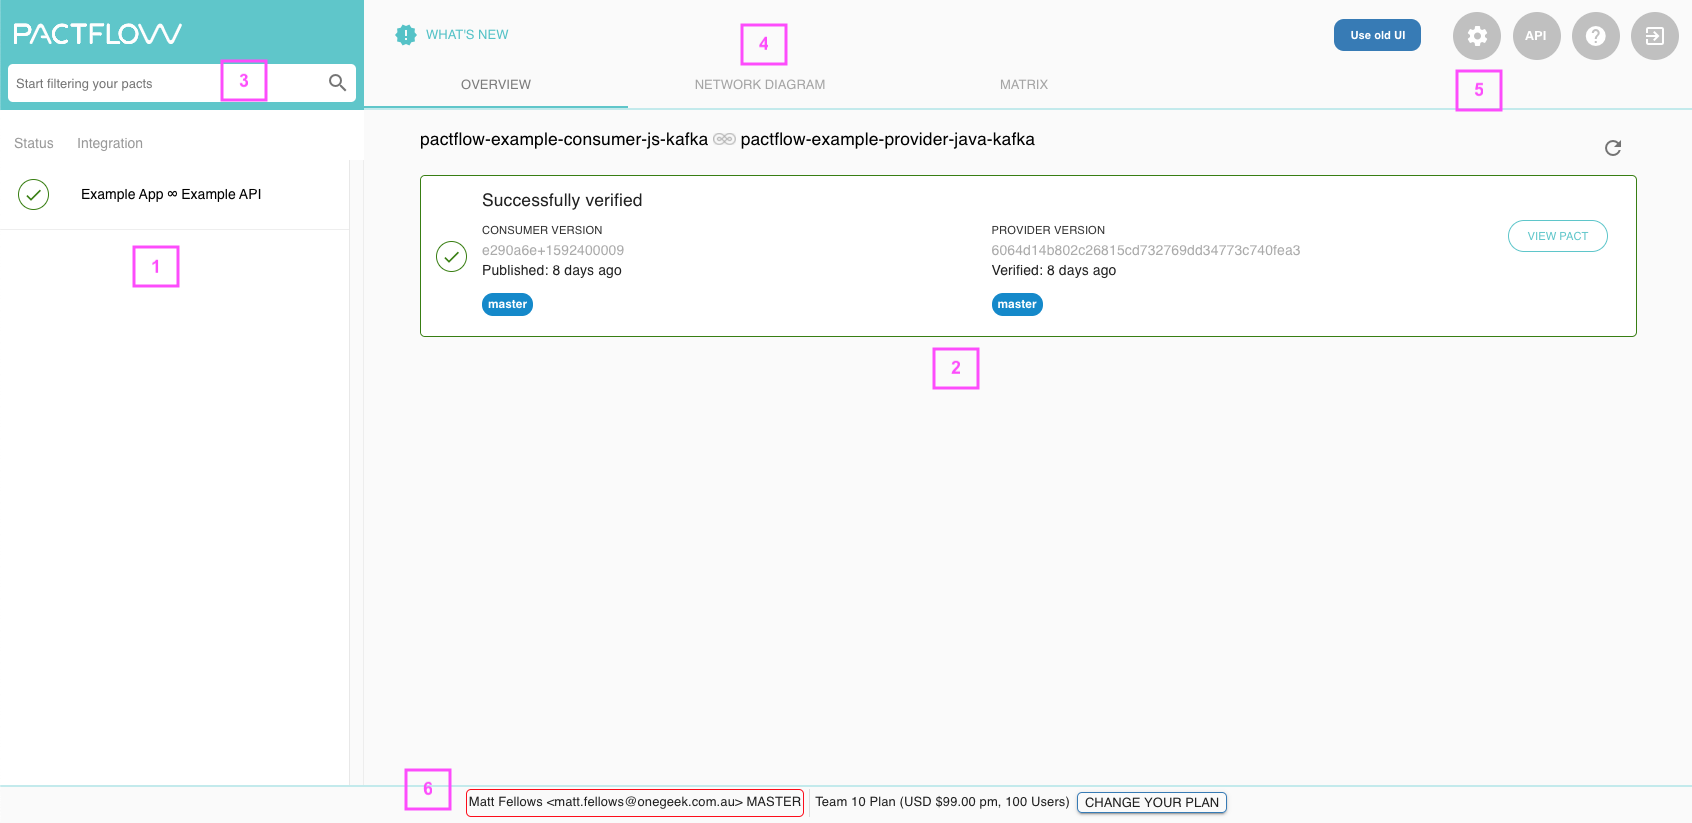
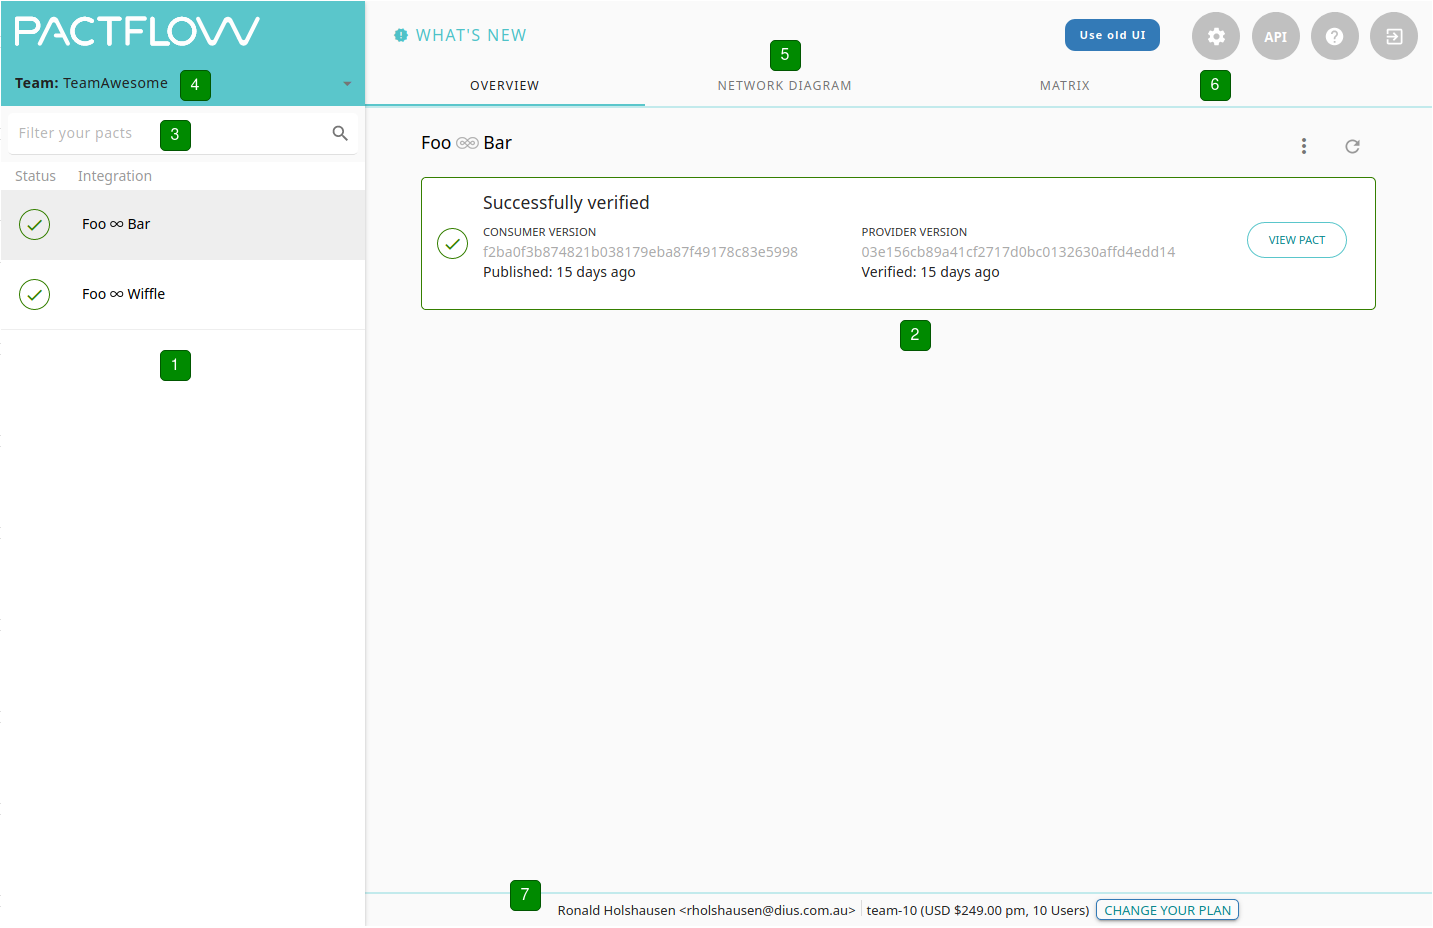
chore: add teams docos

diff --git a/docs/user-interface/dashboard.md b/docs/user-interface/dashboard.md
@@ -10,25 +10,29 @@ The main Pactflow screen has four functional areas.
 
 &nbsp;
 
-**1**
+**1 -**
 The list of all integrations are displayed on the left panel. An integration here is the pair of a consumer and provider that have a pact. Select an integration to have its details displayed in the center panel. The status icon (see table below) will be displayed for the verification result of latest pact.
 
-**2**
+**2 -**
 The details of the selected integration will be displayed here.
 
-**3**
+**3 -**
 You can filter the list of integrations here by either the Consumer or Provider name.
 
-**4**
+**4 -**
+If you have been assigned to a [team](#settings-teams), you can select them here. This will filter the list of integrations
+by the applications that belong to the team.
+
+**5 -**
 The tabs at the top provide different views of the currently selected integration. The Network
 Diagram will display a graph view of all the integrations that are reachable from the selected one.
 The Matrix will display more details of all the pacts and verifications of the selected integration.
 
-**5**
+**6 -**
 The settings (or cog) button will take you to all the setting screens. Here you'll be able to setup
 [API tokens](#settings-api-tokens), [webhooks](#settings-webhooks), [users](#settings-users) and more.
 
-**6**
+**7 -**
 Displays the current logged in user and subscription status.
 
 &nbsp;

diff --git a/docs/user-interface/settings/teams.md b/docs/user-interface/settings/teams.md
@@ -1,0 +1,37 @@
+---
+title: Teams
+---
+
+Our Team Management featue allows you manage the following capabilities:
+
+* Allocate users to teams
+* Allocate applications to teams
+
+_NOTE: Editing of teams is restricted to the administrators of the account._
+
+![Teams Management Screen](assets/ui/teams.png)
+
+**New Team** will allow you to create a new team and assign applications to that team.
+
+**Delete Team** allows you to unlink all users and applications from a team and remove it.
+
+**Edit Name & Applications** allows you to change the name and applications of an existing team.
+
+Clicking on the team name will take you to the allocate users screen. 
+
+## Editing or Creating a team
+
+![Edit Team](assets/ui/edit_team.png)
+
+With the team applications, you can search for applications and add them to the team. This allows the users in the team
+to be able to filter the main dashboard by those applications.
+
+## Allocating users to a team
+
+![Edit Team Users](assets/ui/edit_team_users.png)
+
+You can search for users by name to add to the team. Clicking the trashcan icon next to a user will remove them from the team.
+
+**Edit** takes you to the edit team dialog, and **Delete** will allow you to delete the team.
+
+You can also switch to other teams from this screen by using the team select box at the top.

diff --git a/docs/workshops/ci-cd/README.md b/docs/workshops/ci-cd/README.md
@@ -2,7 +2,6 @@
 id: index
 title: Pactflow CI/CD Workshop
 sidebar_label: Introduction
-# Comment test
 ---
 
 A workshop demonstrating how to set up a CI/CD pipeline for a consumer and provider using Pact, Pactflow and Travis CI.
